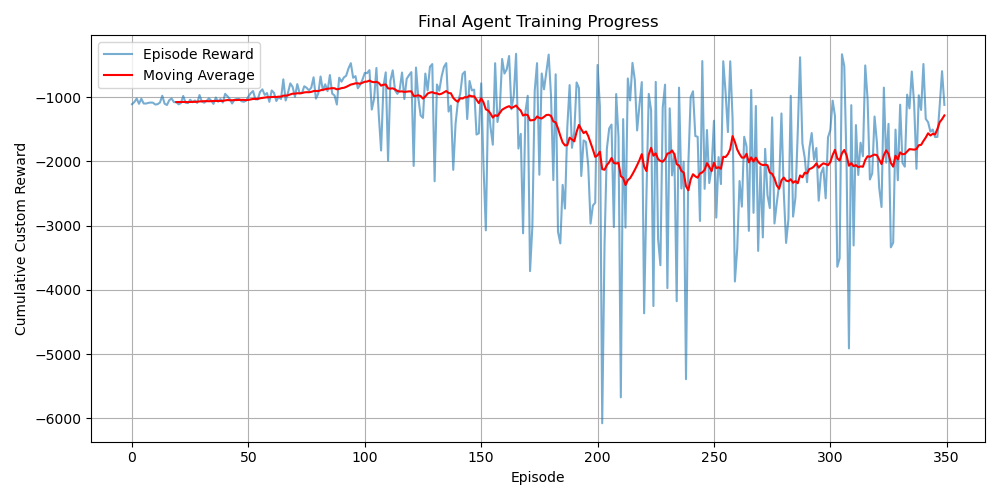
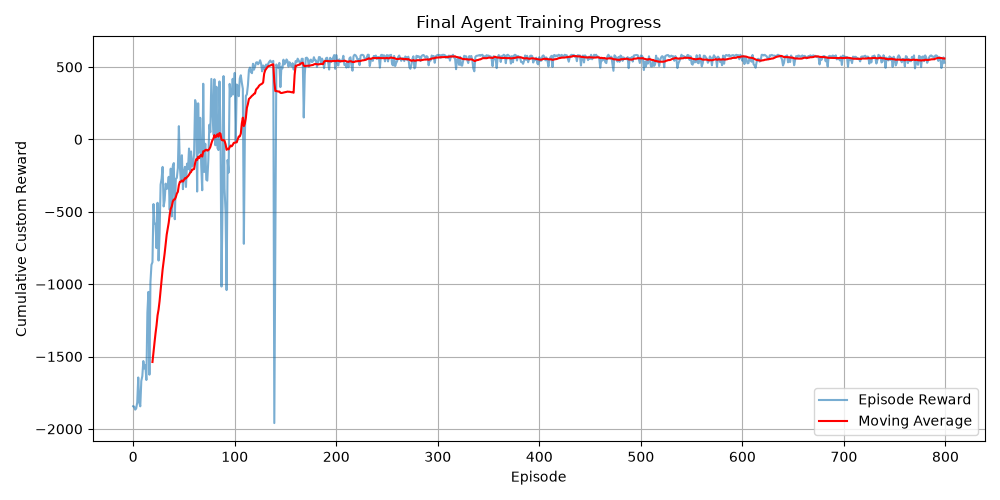
Training data for Q-Learning

diff --git a/Q-Learning/tune.py b/Q-Learning/tune.py
@@ -4,6 +4,7 @@ import os
 sys.path.append(os.path.abspath(os.path.join(os.path.dirname(__file__), '..', 'gym-unbalanced-disk-master')))
 
 import gymnasium as gym
+gym.logger.set_level(40)
 import gym_unbalanced_disk
 import optuna
 import time
@@ -13,12 +14,9 @@ from agent import RBFFeatureExtractor, RBFQLearningAgent
 from reward import calculate_custom_reward
 
 START_TIME = None
-TRIALS_COMPLETED = 0
-TOTAL_TRIALS = 100 
 
 def objective(trial):
-    global TRIALS_COMPLETED, START_TIME
-
+    # 1. Suggest Hyperparameters
     n_bins = trial.suggest_int('n_bins', 5, 12)
     sigma = trial.suggest_float('sigma', 0.2, 1.5)
     alpha = trial.suggest_float('alpha', 1e-4, 5e-2, log=True)
@@ -26,17 +24,21 @@ def objective(trial):
     eps_decay = trial.suggest_float('epsilon_decay', 0.98, 0.999)
     w_energy = trial.suggest_float('w_energy', 0.1, 2.0)
     w_position = trial.suggest_float('w_position', 1.0, 5.0)
+    w_stab = trial.suggest_float('w_stab', 0.0, 2.0)
 
+    # 2. Setup Environment and Agent
     env = gym.make('unbalanced-disk-sincos-v0')
     
-    # Coarse for swing-up, ultra-fine for balancing
+    # The 15 ultra-fine actions for smooth control at the top
     actions = [-3.0, -2.0, -1.0, -0.5, -0.2, -0.1, -0.05, 0.0, 0.05, 0.1, 0.2, 0.5, 1.0, 2.0, 3.0]
     
     feature_extractor = RBFFeatureExtractor(n_bins, sigma)
     agent = RBFQLearningAgent(feature_extractor.num_features, actions, alpha, gamma, 1.0, eps_decay)
 
+    # 3. Training Loop (Extended to 400 episodes)
     for episode in range(400):
-        state, _ = env.reset()
+        # Seed locked for deterministic noise
+        state, _ = env.reset(seed=42)
         features = feature_extractor.get_features(state)
         done = False
         episode_reward = 0
@@ -46,7 +48,7 @@ def objective(trial):
             next_state, _, terminated, truncated, _ = env.step(action_val)
             done = terminated or truncated
             
-            reward = calculate_custom_reward(next_state, action_val, w_energy, w_position)
+            reward = calculate_custom_reward(next_state, action_val, w_energy, w_position, w_stab)
             next_features = feature_extractor.get_features(next_state)
             
             agent.update(features, action_idx, reward, next_features, done)
@@ -55,51 +57,58 @@ def objective(trial):
 
         agent.decay_epsilon()
 
-        # --- THE PRUNING FIX ---
+        # 4. Pruning Check (Delayed to episode 200)
         if episode == 200:
-            trial.report(episode_reward, step=100)
+            trial.report(episode_reward, step=200)
             if trial.should_prune():
                 env.close()
-                
-                # Update the counter and print the ETA before ejecting
-                TRIALS_COMPLETED += 1
-                elapsed_time = time.time() - START_TIME
-                avg_time = elapsed_time / TRIALS_COMPLETED
-                eta_sec = avg_time * (TOTAL_TRIALS - TRIALS_COMPLETED)
-                finish_time = datetime.now() + timedelta(seconds=eta_sec)
-                
-                print(f"[Trial {TRIALS_COMPLETED}/{TOTAL_TRIALS}] PRUNED (Poor Performance) | "
-                      f"Avg: {avg_time:.1f}s | ETA: {finish_time.strftime('%H:%M:%S')}")
-                      
+                # Clean exit for Windows multiprocessing
                 raise optuna.TrialPruned()
 
+    # 5. Evaluation Loop (Pure physics score)
+    # 5. Evaluation Loop (Physics + Smoothness Score)
+    import numpy as np # Ensure this is at the top of your file
+    
     eval_episodes = 5
-    total_eval_reward = 0.0
+    total_eval_score = 0.0
+
     for _ in range(eval_episodes):
-        state, _ = env.reset()
+        state, _ = env.reset(seed=42)
         features = feature_extractor.get_features(state)
         done = False
+        
+        episode_voltages = []
+        episode_position_score = 0.0
+
         while not done:
             action_idx, action_val = agent.select_action(features, evaluate=True)
             next_state, _, terminated, truncated, _ = env.step(action_val)
             done = terminated or truncated
-            total_eval_reward += -next_state[1] # Reward proximity to top
+            
+            # Position score: +1.0 for perfectly upright
+            episode_position_score += -next_state[1] 
+            
+            # Track the exact voltage used
+            episode_voltages.append(action_val)
             features = feature_extractor.get_features(next_state)
 
+        # Calculate Total Variation (Actuator Chattering)
+        voltage_diffs = np.abs(np.diff(episode_voltages))
+        total_variation = np.sum(voltage_diffs)
+        
+        # THE SMOOTHNESS PENALTY
+        # We multiply TV by 0.5 so it doesn't completely overwhelm the position score.
+        # This means every 1V of unnecessary jitter costs the agent 0.5 points.
+        episode_final_score = episode_position_score - (0.5 * total_variation)
+        
+        total_eval_score += episode_final_score
+
     env.close()
-    mean_reward = total_eval_reward / eval_episodes
     
-    # --- SUCCESSFUL TRIAL COMPLETION ---
-    TRIALS_COMPLETED += 1
-    elapsed_time = time.time() - START_TIME
-    avg_time = elapsed_time / TRIALS_COMPLETED
-    eta_sec = avg_time * (TOTAL_TRIALS - TRIALS_COMPLETED)
-    finish_time = datetime.now() + timedelta(seconds=eta_sec)
-    
-    print(f"[Trial {TRIALS_COMPLETED}/{TOTAL_TRIALS}] SUCCESS | Score: {mean_reward:.2f} | "
-          f"Avg: {avg_time:.1f}s | ETA: {finish_time.strftime('%H:%M:%S')}")
-          
-    return mean_reward
+    # 6. Return Final Score
+    mean_score = total_eval_score / eval_episodes
+    return mean_score
+
 
 if __name__ == "__main__":
     print("Starting Optimization...")
@@ -112,6 +121,10 @@ if __name__ == "__main__":
         load_if_exists=True,
         pruner=optuna.pruners.MedianPruner()
     )
+
+    TOTAL_TARGET_TRIALS = 250
+    completed_trials = len(study.trials)
+    trials_to_run = TOTAL_TARGET_TRIALS - completed_trials
     
-    study.optimize(objective, n_trials=TOTAL_TRIALS)
+    study.optimize(objective, n_trials=trials_to_run, n_jobs=4, show_progress_bar=True)
     print(f"Best Score: {study.best_value:.2f}")

diff --git a/Q-Learning/animate.py b/Q-Learning/animate.py
@@ -1,94 +1,52 @@
-import sys
-import os
-# Fix path: Go up one level, then into gym-unbalanced-disk-master
-sys.path.append(os.path.abspath(os.path.join(os.path.dirname(__file__), '..', 'gym-unbalanced-disk-master')))
-
-import gymnasium as gym
-import gym_unbalanced_disk
 import numpy as np
-import optuna
 import matplotlib.pyplot as plt
 import matplotlib.animation as animation
-
-from agent import RBFFeatureExtractor, RBFQLearningAgent
-
-SEED = 42
-np.random.seed(SEED)
+import sys
 
 # ==========================================
 # GIF CONFIGURATION SETTINGS
 # ==========================================
-START_TIME = 0.0        # Seconds to start the GIF (e.g., 1.0 to skip the beginning)
-END_TIME = 7.5          # Seconds to end the GIF (e.g., 3.0 to focus on the catch)
+START_TIME = 0.0        # Seconds to start the GIF 
+END_TIME = 7.5          # Seconds to end the GIF 
 PLAYBACK_SPEED = 0.5    # 1.0 is real-time. 0.5 is half-speed (slow motion). 2.0 is double speed.
 TRAIL_LENGTH = 15       # How many frames the motion trail should last
 # ==========================================
 
 if __name__ == "__main__":
-    print("Loading Agent and simulating physics...")
+    print("Loading pre-recorded simulation data...")
     
-    # 1. Load Parameters and Weights
+    # 1. Load the pre-recorded data
     try:
-        study = optuna.load_study(study_name="rbf_swingup", storage="sqlite:///rbf_tuning.db")
-        bp = study.best_params
-    except Exception as e:
-        print("Could not load database. Run tune.py first!")
+        data = np.load('last_eval_data.npy', allow_pickle=True).item()
+        all_thetas = data['thetas']
+        all_voltages = data['voltages']
+    except FileNotFoundError:
+        print("Error: 'last_eval_data.npy' not found. Please run evaluate.py first to generate the data.")
         sys.exit()
-    
-    env = gym.make('unbalanced-disk-sincos-v0')
-    actions = [-3.0, -2.0, -1.0, -0.5, -0.2, -0.1, -0.05, 0.0, 0.05, 0.1, 0.2, 0.5, 1.0, 2.0, 3.0]
-    
-    feature_extractor = RBFFeatureExtractor(bp['n_bins'], bp['sigma'])
-    agent = RBFQLearningAgent(feature_extractor.num_features, actions, bp['alpha'], bp['gamma'], 0.0, 1.0)
-    agent.weights = np.load('best_rbf_weights.npy')
 
-    # 2. Run the Simulation to gather data
-    state, _ = env.reset(seed=SEED)
-    features = feature_extractor.get_features(state)
-    done = False
-    
-    all_times, all_thetas, all_voltages = [], [], []
+    # 2. Reconstruct the precise time array using np.arange (Bug Fixed)
     dt = 0.025
-    step = 0
-
-    while not done:
-        action_idx, action_val = agent.select_action(features, evaluate=True)
-        next_state, _, terminated, truncated, _ = env.step(action_val)
-        done = terminated or truncated
-        
-        all_times.append(step * dt)
-        all_thetas.append(np.arctan2(state[0], state[1]))
-        all_voltages.append(action_val)
-        
-        features = feature_extractor.get_features(next_state)
-        state = next_state
-        step += 1
-
-    env.close()
-
+    all_times = np.arange(len(all_thetas)) * dt
+    
     # 3. Crop Data based on User Settings
-    all_times = np.array(all_times)
-    all_thetas = np.array(all_thetas)
-    all_voltages = np.array(all_voltages)
-
     mask = (all_times >= START_TIME) & (all_times <= END_TIME)
     times = all_times[mask]
-    thetas = all_thetas[mask]
-    voltages = all_voltages[mask]
+    thetas = np.array(all_thetas)[mask]
+    voltages = np.array(all_voltages)[mask]
 
     if len(times) == 0:
         print("Error: Cropped window contains no data. Adjust START_TIME and END_TIME.")
         sys.exit()
 
     # 4. Set up the Figure and Layout
-    print("Rendering GIF... This may take a minute depending on duration.")
+    print("Rendering GIF...")
     fig, (ax_pend, ax_ctrl) = plt.subplots(2, 1, figsize=(8, 10), gridspec_kw={'height_ratios': [2, 1]})
     fig.suptitle('RBF Agent Swing-up Control Policy', fontsize=16)
 
     # --- Setup Top Panel (Physical Pendulum) ---
     ax_pend.set_xlim(-1.5, 1.5)
     ax_pend.set_ylim(-1.5, 1.5)
-    ax_pend.set_aspect('equal') # Forces it to be a perfect square so the circle doesn't stretch
+    ax_pend.set_aspect('equal') # Forces it to be a perfect square
     ax_pend.grid(True, linestyle='--', alpha=0.5)
     ax_pend.axhline(0, color='black', linewidth=0.5)
     ax_pend.axvline(0, color='black', linewidth=0.5)
@@ -126,7 +84,6 @@ if __name__ == "__main__":
         current_theta = thetas[idx]
         
         # Calculate Kinematics (0 is down, PI is up)
-        # x = sin(theta), y = -cos(theta)
         x = np.sin(current_theta)
         y = -np.cos(current_theta)
         

diff --git a/Q-Learning/evaluate.py b/Q-Learning/evaluate.py
@@ -61,6 +61,13 @@ if __name__ == "__main__":
         state = next_state
         step += 1
 
+    data = {
+    'thetas': thetas,
+    'omegas': omegas,
+    'voltages': voltages
+    }
+    np.save('last_eval_data.npy', data)
+
     env.close()
 
     fig, (ax1, ax2) = plt.subplots(2, 1, figsize=(10, 8), sharex=True)

diff --git a/Q-Learning/reward.py b/Q-Learning/reward.py
@@ -1,4 +1,4 @@
-def calculate_custom_reward(state, action, w_energy, w_position):
+def calculate_custom_reward(state, action, w_energy, w_position, w_stab):
     sin_th, cos_th, omega = state
     
     position_reward = -cos_th 
@@ -15,4 +15,4 @@ def calculate_custom_reward(state, action, w_energy, w_position):
     else:
         stab_penalty = 0.0
 
-    return (w_position * position_reward) + (w_energy * energy_penalty) - stab_penalty
+    return (w_position * position_reward) + (w_energy * energy_penalty) - (w_stab* stab_penalty)

diff --git a/Q-Learning/train_final.py b/Q-Learning/train_final.py
@@ -27,7 +27,7 @@ if __name__ == "__main__":
     feature_extractor = RBFFeatureExtractor(bp['n_bins'], bp['sigma'])
     agent = RBFQLearningAgent(feature_extractor.num_features, actions, bp['alpha'], bp['gamma'], 1.0, bp['epsilon_decay'])
 
-    episodes = 350
+    episodes = 800
     reward_history = []
 
     print("Training final agent...")
@@ -42,7 +42,7 @@ if __name__ == "__main__":
             next_state, _, terminated, truncated, _ = env.step(action_val)
             done = terminated or truncated
             
-            reward = calculate_custom_reward(next_state, action_val, bp['w_energy'], bp['w_position'])
+            reward = calculate_custom_reward(next_state, action_val, bp['w_energy'], bp['w_position'], bp["w_stab"])
             next_features = feature_extractor.get_features(next_state)
             
             agent.update(features, action_idx, reward, next_features, done)